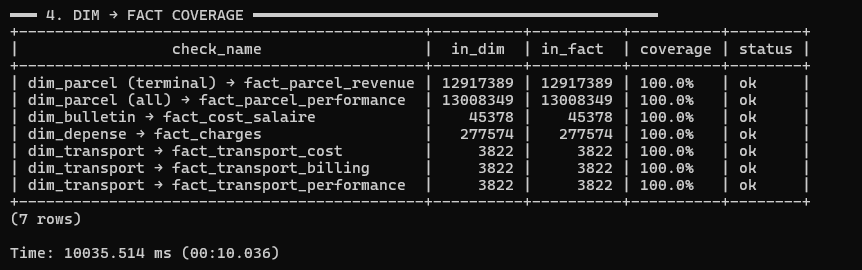
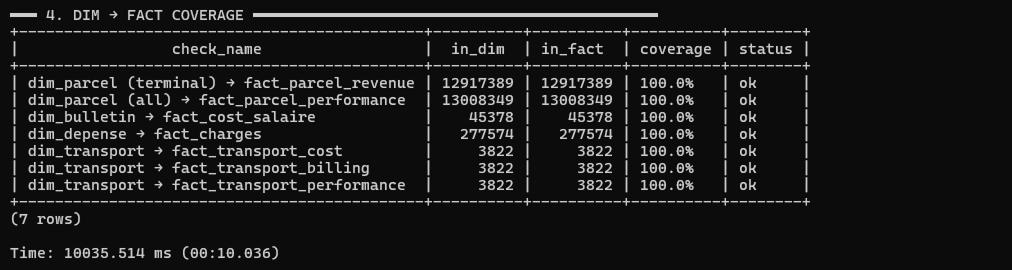
Update Chapter 6 with revised system names, enhanced descriptions, and improved data integrity checks

diff --git a/mainmatter/part2/chapter6/chapter6.tex b/mainmatter/part2/chapter6/chapter6.tex
@@ -42,13 +42,13 @@ is exposed behind a REST API, and the data it serves stands in for the operation
 \rowcolor{tblheader}
 \textcolor{white}{\textbf{Simulated system}} & \textcolor{white}{\textbf{Domain it provides}} \\
 \hline
-Core logistics system & Geography, delivery centres, the pricing grid, and the full parcel-event
+Yalidine App & Geography, delivery centres, the pricing grid, and the full parcel-event
 history. \\
-HR system & Companies, agencies, employees, and the organisational hierarchy. \\
-Cash-box system & Operating expenses, freelance-driver payments, reimbursements, and internal
+HR~Force & Companies, agencies, employees, and the organisational hierarchy. \\
+Cash~Box & Operating expenses, freelance-driver payments, reimbursements, and internal
 transfers. \\
-Payroll system & Monthly payslips. \\
-Transport system & Dedicated B2B transport requests and their stops. \\
+PC~Paie & Monthly payslips. \\
+Transport & Dedicated B2B transport requests and their stops. \\
 \hline
 \end{tabularx}
 \caption{The five simulated source systems and the business domain each one provides to the warehouse.}
@@ -101,8 +101,9 @@ behaves:
 \begin{itemize}[noitemsep]
     \item \textbf{Working calendar} --- the Algerian week, with Friday as the only day off and reduced
           activity at weekends; no operational events fall on the non-working day.
-    \item \textbf{Seasonality} --- the yearly rhythm of Algerian commerce: the Ramadan slowdown and the
-          Eid rebound, the Black Friday surge, and the end-of-year peak (Figure~\ref{fig:ch6-seasonal}).
+    \item \textbf{Seasonality} --- the yearly rhythm of Algerian commerce: a slowdown in the first half of
+          Ramadan followed by a peak in its second half ahead of Eid, the Black Friday surge, and the
+          end-of-year peak.
     \item \textbf{Geographic realism} --- parcel volume distributed across the wilayas in proportions
           that mirror the real activity, concentrated on the densest regions.
     \item \textbf{Labour-law payroll} --- salaries computed following Algerian labour-law rates, so
@@ -112,36 +113,6 @@ behaves:
     \item \textbf{Internal consistency} --- costs, billing, and operations are kept mutually consistent,
           so financial and operational figures reconcile.
 \end{itemize}
-
-% [VISUAL-IMPLEMENT] illustrative seasonal parcel-volume chart (NOT measured data)
-\begin{figure}[H]
-\centering
-\begin{tikzpicture}
-\begin{axis}[
-    width=\textwidth, height=6cm,
-    ybar, bar width=8pt,
-    ymin=0,
-    symbolic x coords={Jan,Feb,Mar,Apr,May,Jun,Jul,Aug,Sep,Oct,Nov,Dec},
-    xtick=data,
-    x tick label style={font=\scriptsize},
-    ylabel={Relative volume (illustrative)},
-    ylabel style={font=\scriptsize},
-    ytick style={draw=none},
-    ymajorgrids, grid style={figslate!30, dotted},
-    enlarge x limits=0.05,
-    axis lines=left,
-]
-\addplot[fill=figbluetint, draw=figblue] coordinates
-  {(Jan,90)(Feb,95)(Mar,105)(Apr,80)(May,120)(Jun,110)(Jul,100)(Aug,95)(Sep,105)(Oct,115)(Nov,160)(Dec,150)};
-\node[font=\tiny, text=figslate, anchor=south] at (axis cs:Apr,80) {Ramadan};
-\node[font=\tiny\bfseries, text=figorange, anchor=south] at (axis cs:Nov,160) {Black Friday};
-\end{axis}
-\end{tikzpicture}
-\caption{Illustrative seasonal pattern of parcel volume produced by the generator --- the Ramadan
-slowdown, the Black Friday surge, and the year-end peak. The values are \emph{illustrative}, shown to
-convey the shape of the seasonality, not measured figures.}
-\label{fig:ch6-seasonal}
-\end{figure}
 
 Taken together, these rules mean the test dataset does not merely fill the warehouse with rows: it
 reproduces the \emph{behaviour} of the real activity, so that the dashboards, KPIs, and alerts are
@@ -317,7 +288,7 @@ Table~\ref{tab:ch6-integrity}.
 \textcolor{white}{\textbf{Audit dimension}} & \textcolor{white}{\textbf{What it verifies}} &
 \textcolor{white}{\textbf{Result}} \\
 \hline
-Layer population & Every staging, dimension, and fact table holds the expected rows. & 45 tables, all
+Layer population & Every staging table and principal dimension and fact holds the expected rows. & All
 populated \\
 SCD Type~2 integrity & No duplicate current rows and no overlapping validity windows (agencies,
 employees). & 4 checks, 0 violations \\
@@ -334,14 +305,15 @@ either full coverage or zero violations.}
 \label{tab:ch6-integrity}
 \end{table}
 
-\textbf{Layer population.} The first check counts the rows of every warehouse object across the four
-layers (Figure~\ref{fig:ch6-rowcounts}). All 45 objects --- 18 staging tables, 20 dimensions, and 7
-facts --- are populated, with the figures matching the generated volumes of Table~\ref{tab:ch6-scale}:
-the staging parcel history holds 30{,}527{,}458 events, \texttt{dim\_parcel} 13{,}008{,}349 parcels, and
-the fact layer the corresponding rows. A telling detail is that \texttt{fact\_parcel\_revenue}
-(12{,}917{,}389) carries fewer rows than \texttt{dim\_parcel} (13{,}008{,}349): only parcels that reach a
-terminal, billable state produce revenue, while \emph{every} parcel --- delivered or not --- is measured
-for performance. The model therefore captures the full lifecycle, not just successful deliveries.
+\textbf{Layer population.} The first check counts the rows held across the four layers
+(Figure~\ref{fig:ch6-rowcounts}), confirming that each staging table, \emph{principal} dimension, and
+fact is populated, with the counts reconciling against the generated volumes of
+Table~\ref{tab:ch6-scale}. The audit targets the principal dimensions and facts --- the tables that
+carry the analytical load --- rather than every object in the warehouse. Where a fact legitimately holds
+fewer rows than its dimension, this reflects the business rule behind it, not a loss in transformation:
+only events that reach a billable state produce revenue rows, for instance, whereas \emph{every} event
+--- successful or not --- is still measured for performance. The model therefore captures the full
+lifecycle, not just its successful outcomes.
 
 % [VISUAL-PLACEHOLDER] (provided) row-count audit of every warehouse table by layer
 \begin{figure}[H]
@@ -355,9 +327,10 @@ populated as expected after a full pipeline run.}
 \textbf{Transformation coverage.} Two checks confirm that no data is silently lost between layers
 (Figure~\ref{fig:ch6-coverage}): every non-test source entity reaches its dimension
 (staging\,$\rightarrow$\,dimension), and every dimension is exercised by its facts
-(dimension\,$\rightarrow$\,fact). Both return \textbf{100\% coverage} on all rows --- for example, all
-13{,}008{,}349 parcel trackings in staging resolve to a \texttt{dim\_parcel} row, and all are joined by
-\texttt{fact\_parcel\_performance}.
+(dimension\,$\rightarrow$\,fact). Both return \textbf{100\% coverage} on all rows.
+
+For example, every parcel tracking in staging resolves to its dimension row, and all are in turn joined by
+their performance fact --- nothing is dropped as the data moves through the layers.
 
 % [VISUAL-PLACEHOLDER] (provided) staging->dimension and dimension->fact coverage, both 100%
 \begin{figure}[H]

diff --git a/mainmatter/part2/chapter5/chapter5.tex b/mainmatter/part2/chapter5/chapter5.tex
@@ -272,7 +272,7 @@ pipeline depends only on the \emph{published API contract}, never on a source's 
 runs unchanged against either the real systems or their faithful simulation (\S\ref{sec:ch6-sources}).
 Not every endpoint is loaded the same way. Most staging tables are small enough to be \textbf{fully
 refreshed} --- truncated and re-filled --- on each run. The heavy feeds, above all
-\texttt{stg\_yalidine\_parcel\_history} (on the order of tens of millions of rows), are instead
+\texttt{stg\_\allowbreak yalidine\_\allowbreak parcel\_\allowbreak history} (on the order of tens of millions of rows), are instead
 loaded \textbf{incrementally}: rather than reloading in full, the pipeline clears only a trailing window
 --- the most recent week --- and re-fetches it, so late-arriving updates are captured while the bulk of
 the history is left untouched. In all, the pipeline consumes seventeen endpoints across the five source
@@ -433,15 +433,13 @@ right one: analytics models to the analytical database, and everything else to t
 
   \draw[flow] (fe) -- (be);
   \draw[flow] (be) -- (rt);
-  \draw[flow] (rt.east) -- node[lbl, above, pos=0.5]{everything else (read/write)} (op.west);
-  \draw[flow] (rt.east) -- node[lbl, below, pos=0.5]{analytics models (read-only)} (an.west);
+  \draw[flow] (rt.east) -- node[lbl, above, pos=0.28]{everything else (read/write)} (op.west);
+  \draw[flow] (rt.east) -- node[lbl, below, pos=0.28]{analytics models (read-only)} (an.west);
 \end{tikzpicture}%
 }
-\caption{Operational/analytical query routing. The backend (Django\,+\,DRF) connects to two PostgreSQL
-databases; a database router transparently sends analytics models to the read-only \textbf{analytical
-database}, and every other query --- users, roles, alert rules, preferences, notifications, ETL run
-history --- to the \textbf{operational database}. The separation is enforced at the framework level, not
-in each endpoint.}
+\caption{Operational/analytical query routing: a database router sends analytics models to the read-only
+\textbf{analytical database} and every other query to the \textbf{operational database}, enforcing the
+separation at the framework level rather than in each endpoint.}
 \label{fig:ch5-routing}
 \end{figure}
 
@@ -494,7 +492,7 @@ credentials} already imported by the backend (\S\ref{sec:ch5-backend}); there ar
 passwords to manage (Figure~\ref{fig:ch5-login}).
 
 % [VISUAL-PLACEHOLDER] (provided) sign-in screen
-\fig[0.55\textwidth]{login_page}{The sign-in screen: users authenticate with their HR Force
+\fig[0.68\textwidth]{login_page}{The sign-in screen: users authenticate with their HR Force
 credentials.}{ch5-login}
 
 Once signed in, the user lands on a consolidated \textbf{Overview} (Figure~\ref{fig:ch5-overview}). The
@@ -513,13 +511,14 @@ sign-in.}{ch5-overview}
 \subsection{The Business-User Workspace}
 
 Each business axis has its own page, read through the same three views and kept on a \textbf{separate
-financial perimeter}, so costs and revenues are never mixed across axes. Figure~\ref{fig:ch5-dash-parcel}
-shows the Parcel Delivery axis across all three views, and Figure~\ref{fig:ch5-dash-transport} the
-Dedicated Transport axis.
+financial perimeter}, so costs and revenues are never mixed across axes.
+Figure~\ref{fig:ch5-dash-transport} illustrates both axes through a selection of their views --- the
+Dedicated Transport axis (Operations, Cost \& Profitability) and the Parcel Delivery axis (Operations,
+Performance).
 
 
-% [VISUAL-PLACEHOLDER] (provided) Dedicated Transport axis — 2x2 grid of views
-\begin{figure}[p]
+% [VISUAL-PLACEHOLDER] (provided) Business-user workspace — 2x2 grid across both axes
+\begin{figure}[H]
 \centering
 \begin{subfigure}[t]{0.49\linewidth}
   \centering\includegraphics[width=\linewidth]{BusinessUser_Transport_operations}
@@ -540,7 +539,9 @@ Dedicated Transport axis.
   \centering\includegraphics[width=\linewidth]{BusinessUser_Parcel_performance}
   \caption{Performance}
 \end{subfigure}
-\caption{The Dedicated Transport axis page, read through its views.}
+\caption{The business-user workspace across both axes: the Dedicated Transport axis (Operations,
+Cost \& Profitability) and the Parcel Delivery axis (Operations, Performance), each read through its
+views on a separate financial perimeter.}
 \label{fig:ch5-dash-transport}
 \end{figure}
 

diff --git a/mainmatter/part2/chapter3/chapter3.tex b/mainmatter/part2/chapter3/chapter3.tex
@@ -22,28 +22,10 @@ Before any warehouse can be modelled or any dashboard built, the existing situat
 understood: who the actors are, which systems already run, how the business operates day to day, and
 precisely where the analytical gap lies.
 
-The chapter therefore proceeds as a structured analysis. It introduces the organisations behind the
+The chapter therefore proceeds as a structured analysis: it introduces the organisations behind the
 project, studies the systems and processes already in place, and from that diagnosis derives the
 objectives of the target system, the prioritised business scope, and the methodology that guide the
-remainder of the contribution:
-
-\begin{itemize}[noitemsep]
-    \item \textbf{Host and client organisations} (\S\ref{sec:ch3-orgs}) --- Ourquilane, the software
-          company carrying the project, and Yalidine, the logistics operator that is its final client,
-          together with its national network.
-    \item \textbf{Study of the existing systems} (\S\ref{sec:ch3-existing}) --- the services and
-          business processes in operation and the operational applications that record them.
-    \item \textbf{Diagnosis of the existing situation} (\S\ref{sec:ch3-diagnosis}) --- the weaknesses
-          of the current setup and the analytical gap it leaves behind.
-    \item \textbf{Needs-gathering methods} (\S\ref{sec:ch3-methods}) --- the techniques used to
-          understand the business and collect its needs.
-    \item \textbf{Needs analysis and synthesis} (\S\ref{sec:ch3-objectives}) --- the synthesised needs
-          and the objectives of the target system derived from them.
-    \item \textbf{Business scope and prioritisation} (\S\ref{sec:ch3-scope}) --- the two business axes,
-          ranked with the MoSCoW method.
-    \item \textbf{Development methodology and planning} (\S\ref{sec:ch3-methodology}) --- the iterative
-          approach adopted and the project timeline.
-\end{itemize}
+remainder of the contribution.
 
 
 % ═════════════════════════════════════════════════════════════════════════════
@@ -168,9 +150,9 @@ directions, a network of call centres, and a large vehicle fleet. Physically, pa
   \draw[fl] (r1) -- (s1); \draw[fl] (r2) -- (s2);
   \draw[fl] (r3) -- (s3); \draw[fl] (r4) -- (s4);
   % tier labels down the right side
-  \node[tier] at (5.8, 0)    {Tier 1\\Sorting hubs};
-  \node[tier] at (5.8,-2.3)  {Tier 2\\Regional centres};
-  \node[tier] at (5.8,-4.4)  {Tier 3\\Last mile};
+  \node[tier] at (6.5, 0)    {Tier 1\\Sorting hubs};
+  \node[tier] at (6.5,-2.3)  {Tier 2\\Regional centres};
+  \node[tier] at (6.5,-4.4)  {Tier 3\\Last mile};
 \end{tikzpicture}
 \caption{Yalidine's three-tier operational network. Arrows are two-way: parcels move down for
 delivery and back up for transfer and returns.}
